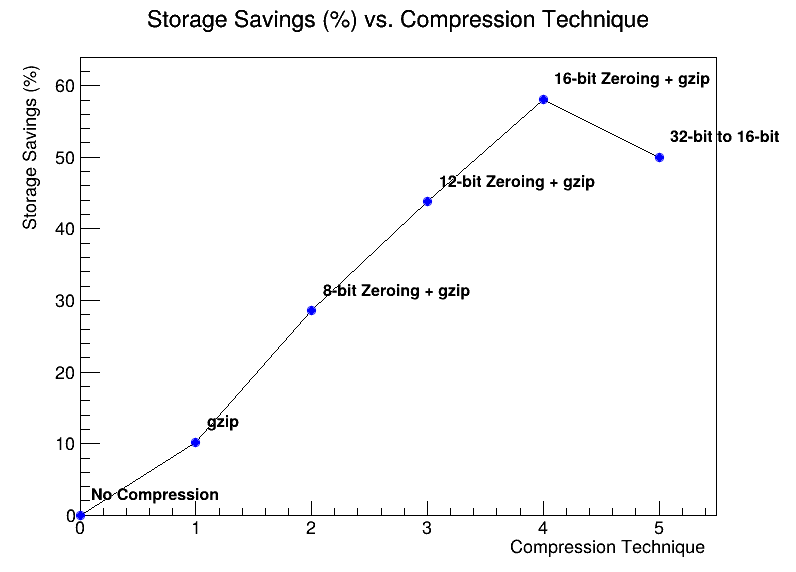
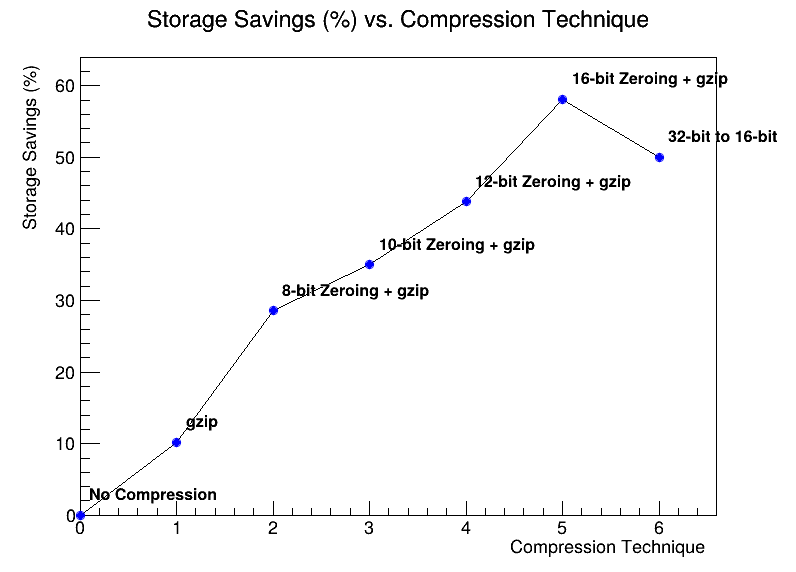
adding stats of compressing 10 lsb and also reflecting some changes to readme.md and task-report.md

diff --git a/root_plotting/mse.cpp b/root_plotting/mse.cpp
@@ -3,11 +3,11 @@
 #include <TStyle.h>
 
 void simulation() {
-    const int n = 6; // Number of compression techniques
+    const int n = 7; // Number of compression techniques
 
-    const char* techniques[n] = {"Uncompressed", "Gzip", "8 bit+gzip", "12bit+Gzip", "16bit+Gzip","32-16 bit"};
+    const char* techniques[n] = {"Uncompressed", "Gzip", "8 bit+gzip","10 bit+gzip",  "12bit+Gzip", "16bit+Gzip","32-16 bit"};
 
-    double mse[n] = {0, 0 , 4.41e-11, 1.13e-08, 2.90e-06,171799 }; 
+    double mse[n] = {0, 0 , 4.40947e-11, 7.0837e-10,1.13422e-08, 2.90112e-06 ,171799 }; 
 
     TCanvas *c1 = new TCanvas("c1", "MSE vs. Compression Techniques", 800, 600);
     gStyle->SetOptStat(0); 
@@ -27,7 +27,7 @@ void simulation() {
     h1->Draw("bar"); 
 
     c1->Update(); 
-    c1->SaveAs("MSE_vs_Techniques.png");
+    c1->SaveAs("mse.png");
     c1->Draw(); 
 }
 

diff --git a/root_plotting/sweet_spot.cpp b/root_plotting/sweet_spot.cpp
@@ -7,14 +7,14 @@
 #include <TLegend.h>
 #include <TStyle.h>
 
-const int numTechniques = 6;
+const int numTechniques = 7;
 const char* techniques[numTechniques] = {
-    "No Compression", "gzip", "8-bit Zeroing + gzip",
+    "No Compression", "gzip", "8-bit Zeroing + gzip","10-bit Zeroing + gzip",
     "12-bit Zeroing + gzip", "16-bit Zeroing + gzip", "32-bit to 16-bit"
 };
 
-double storage_savings[numTechniques] = {0, 10.2, 28.6, 43.8, 58.1, 50.0};
-double mse[numTechniques] = {0.0, 0.0, 4.41e-11, 1.13e-08, 2.90e-06, 171799};
+double storage_savings[numTechniques] = {0, 10.2, 28.6,35.04, 43.8, 58.1, 50.0};
+double mse[numTechniques] = {0.0, 0.0, 4.41e-11,7.0837e-10 , 1.13e-08, 2.90e-06, 171799};
 
 // Find the best compression technique
 int findSweetSpotIndex() {

diff --git a/root_plotting/storage_saving.cpp b/root_plotting/storage_saving.cpp
@@ -4,13 +4,13 @@
 #include <TAxis.h>
 #include <TLatex.h>
 
-const int numTechniques = 6;
+const int numTechniques = 7;
 const char* techniques[numTechniques] = {
-    "No Compression", "gzip", "8-bit Zeroing + gzip",
+    "No Compression", "gzip", "8-bit Zeroing + gzip","10-bit Zeroing + gzip",
     "12-bit Zeroing + gzip", "16-bit Zeroing + gzip", "32-bit to 16-bit"
 };
 
-double storage_savings[numTechniques] = {0, 10.2, 28.6, 43.8, 58.1, 50.0};
+double storage_savings[numTechniques] = {0, 10.2, 28.6, 35.04,43.8, 58.1, 50.0};
 
 // Storage Savings vs Techniques
 void plotStorageSavings() {

diff --git a/Readme.md b/Readme.md
@@ -60,7 +60,7 @@ A detailed analysis is available in Task-report.md.
 
 **Description:**
 - Generates a dataset of uniform random floating-point numbers.
-- Applies different levels of LSB zeroing (8, 12, 16 bits).
+- Applies different levels of LSB zeroing (8, 10 , 12, 16 bits).
 - Computes MSE for each compression level.
 - Saves data and compresses it using Gzip.
 - Compares storage savings from LSB zeroing vs. Gzip compression.
@@ -77,15 +77,23 @@ A detailed analysis is available in Task-report.md.
 ## How to Run
 
 ```sh
-# Compile the programs
+# 32-16bit_MSE.cpp
 g++ -std=c++17 32-16bit_MSE.cpp -o 32-16bit_MSE
 ./32-16bit_MSE
 
+#distributions_mse.cpp
 g++ -std=c++17 distributions_mse.cpp -o distributions_mse
 ./distributions_mse
 
+#og-vs-com_gzip.cpp
 g++ -std=c++17 og-vs-com_gzip.cpp -o og-vs-com_gzip
 ./og-vs-com_gzip
+
+#root_ploting 
+# To compile the program, replace `<filename>` with your actual output filename:
+g++ -o <filename> root_plotting/<filename>.cpp $(root-config --cflags --glibs)
+./<filename>
+
 ```
 
 ## Dependencies

diff --git a/Task-report.md b/Task-report.md
@@ -49,6 +49,7 @@ To achieve actual file size reduction, we explored two additional techniques:
 | No Compression              | 3.81              | 3.81              | 0%              | 0.0           |
 | gzip Compression            | 3.81              | 3.42              | 10.2%           | 0.0           |
 | 8-bit zeroing + gzip        | 3.81              | 2.72              | 28.6%           | 4.41e-11      |
+| 10-bit zeroing + gzip       | 3.81              | 2.47              | 35.04%          | 7.08e-10      |
 | 12-bit zeroing + gzip       | 3.81              | 2.14              | 43.8%           | 1.13e-08      |
 | 16-bit zeroing + gzip       | 3.81              | 1.60              | 58.1%           | 2.90e-06      |
 | 32-bit to 16-bit conversion | 3.81              | 1.90              | 50.0%           | 171799        |
